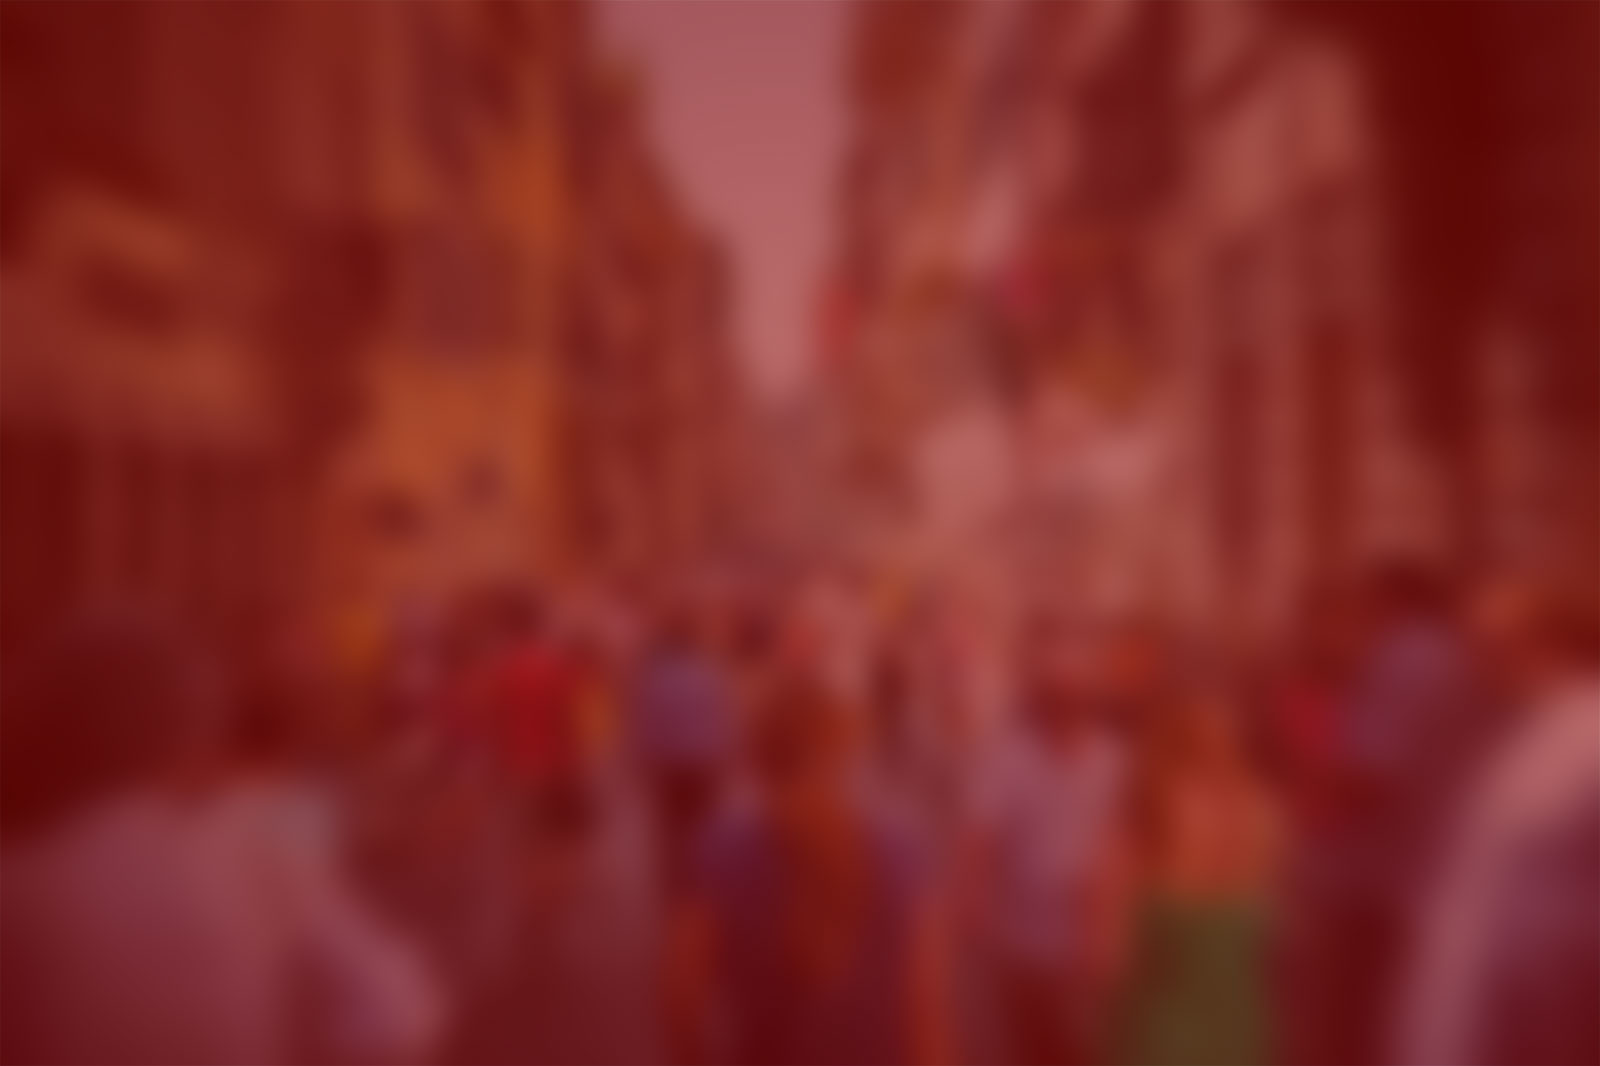
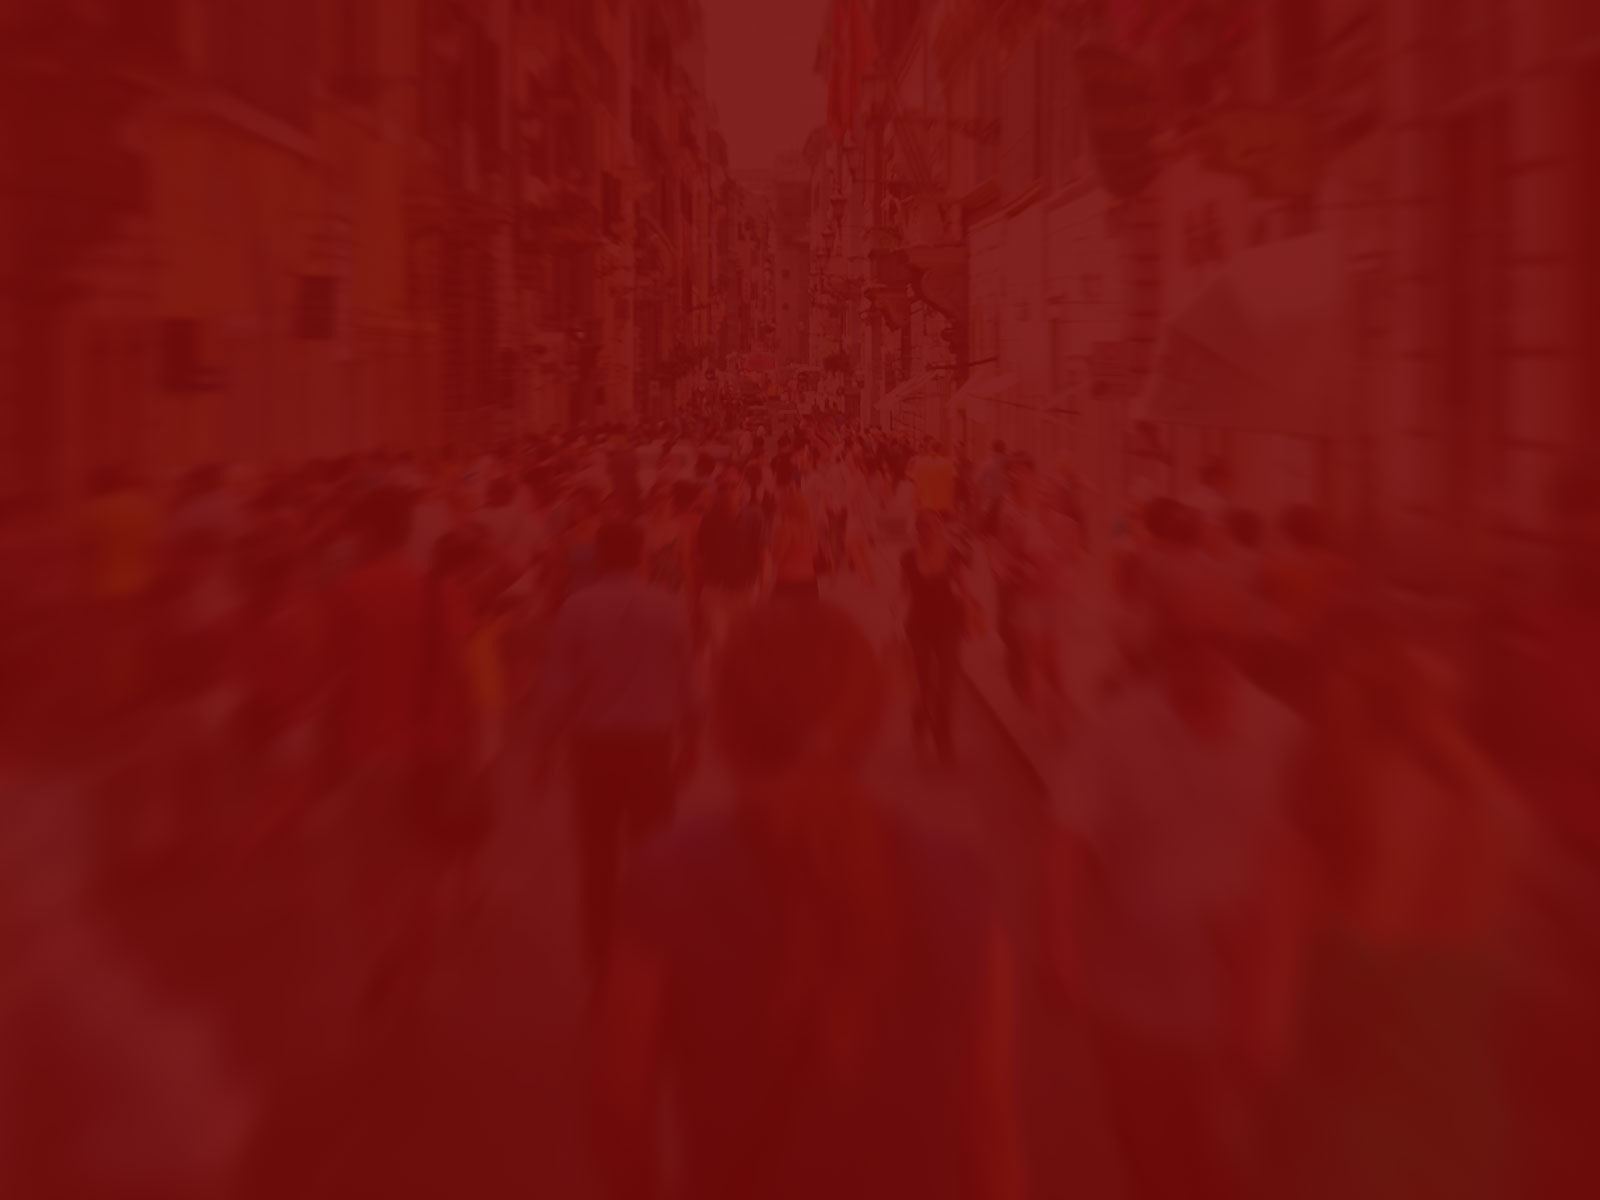
updated background image and css

diff --git a/empatio-site/golive/css/empatio.css b/empatio-site/golive/css/empatio.css
@@ -9,7 +9,7 @@ body {
 }
 body {
     font-family: "brandon-grotesque",sans-serif;
-    font-weight:100;
+    font-weight:300;
     color:#fff;
     background:#000 url(/static/images/bg-main.jpg) 50% 50% no-repeat;
     background-size:cover;
